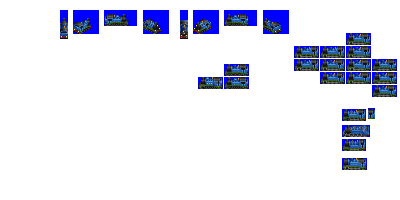
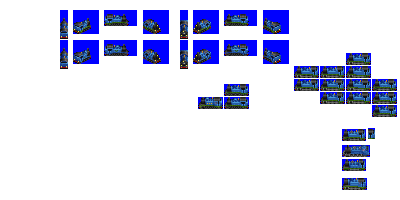
Change: additional banger blue livery for Merrylegs

Changed region(s): [[0.45, 0.15, 1.0, 0.96], [0.15, 0.18, 0.42, 0.36]]

diff --git a/src/vehicles/merrylegs.py b/src/vehicles/merrylegs.py
@@ -17,9 +17,8 @@ def main(roster_id):
         random_reverse=True,
         gen=2,
         caboose_family="gwr_1",
-        additional_liveries=[],
+        additional_liveries=["BANGER_BLUE"],
         sprites_complete=True,
-        sprites_additional_liveries_needed=True, # banger blue?
     )
 
     consist.add_unit(type=SteamEngineUnit, weight=49, vehicle_length=6, spriterow_num=0)
